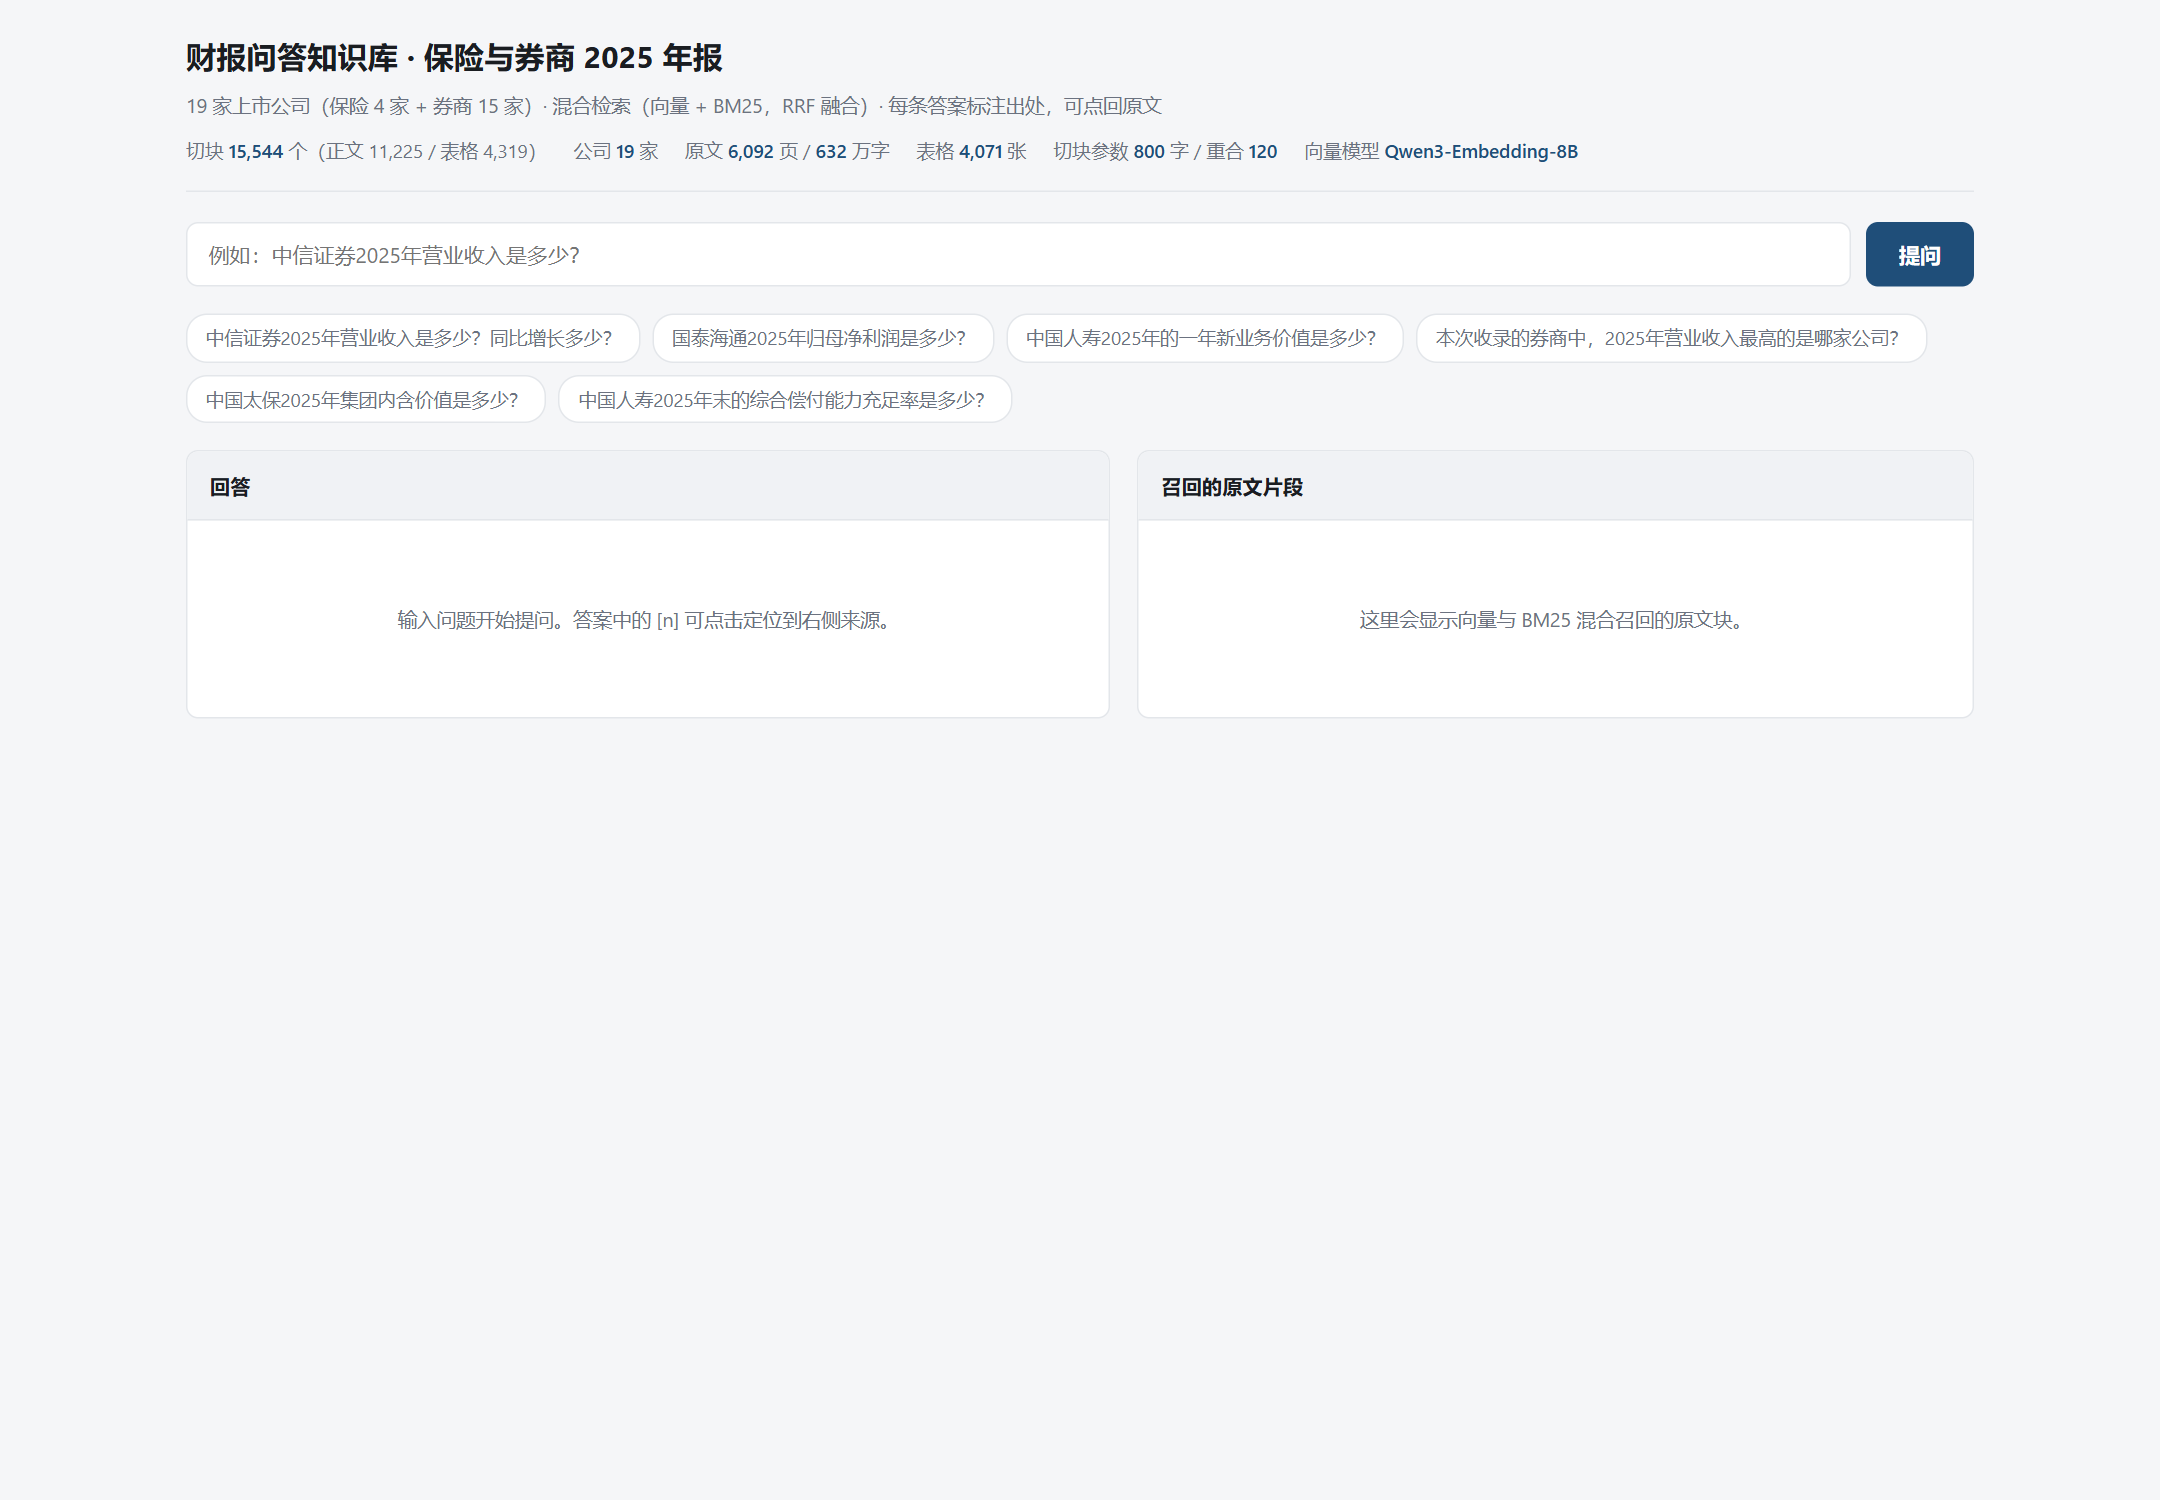
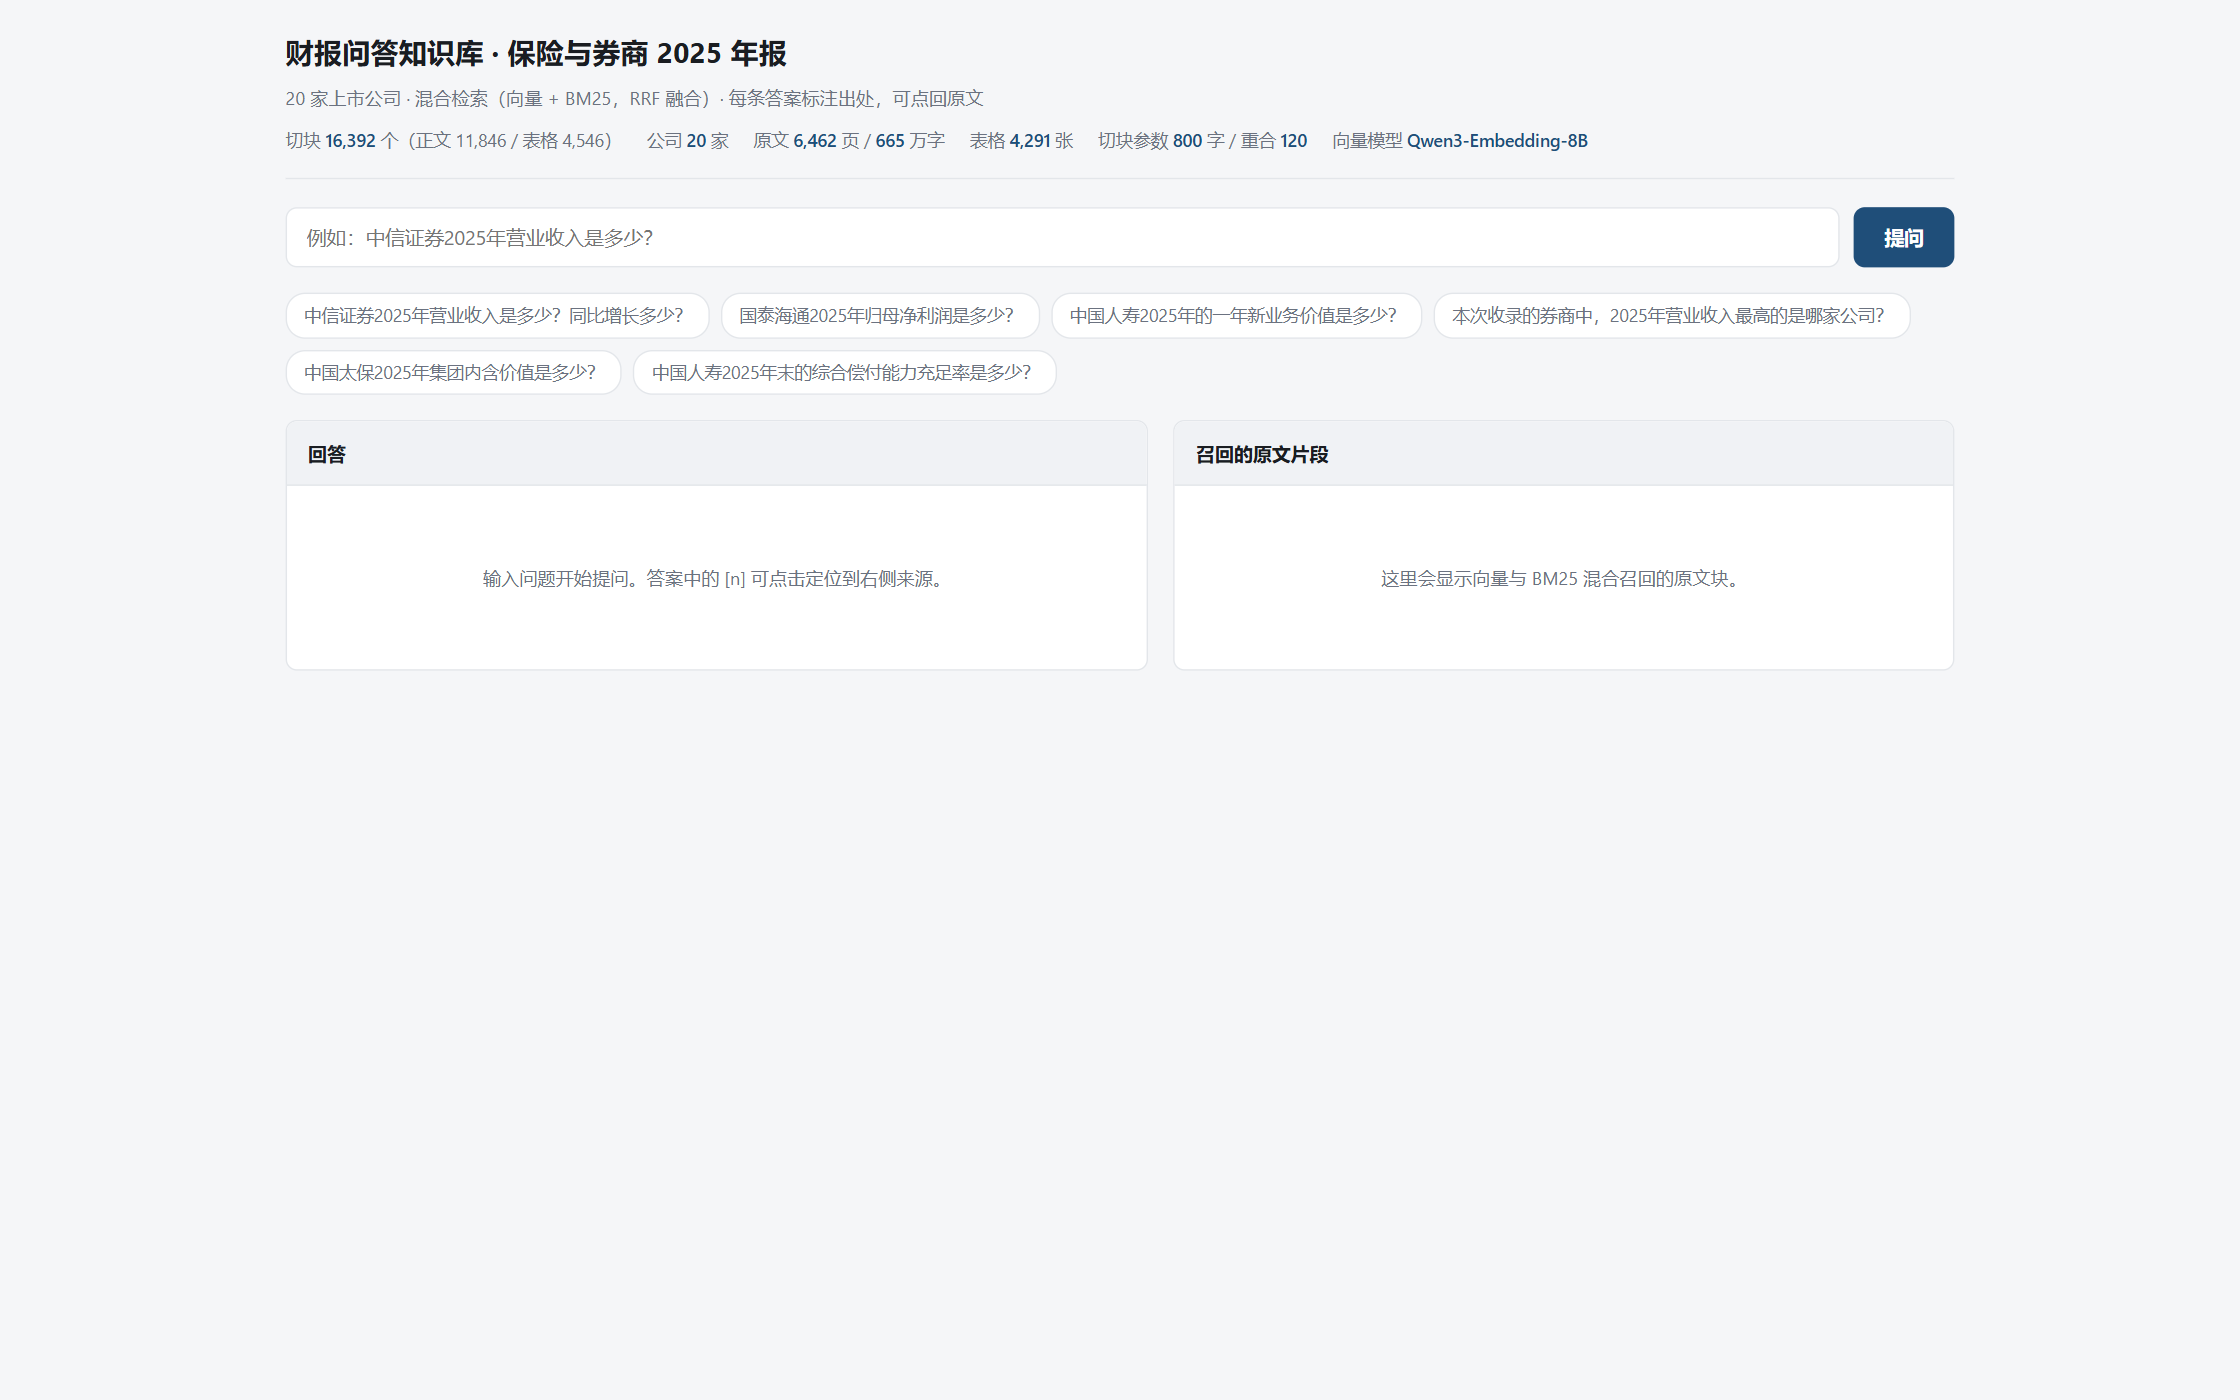
feat: 重新生成问答页面截图，页头公司数改为动态
交付物要求「页面截图」，旧截图是19 家索引时拍的，与当前 20 家索引不一致——
页头写着「19 家（保险 4 + 券商 15）」而统计条显示 20 家，自相矛盾。
截图与代码不同源等于提供了假证据，因此全部重拍。

- 新增 scripts/shoot_page.py：无头 Edge 逐题真实提问，
  等答案与召回片段都渲染完再截图，覆盖首页 + 四种题型
- 截图清单加入第 8 题「跨公司全景-翻车题」：答案里模型逐家列营收、
  断言「最高是国泰君安」，而右侧 8 个召回块里没有中信证券——
  这正是评测记录所述「正确答案未进 top-8」的直接视觉证据
- 第 5 张改为「改名公司-国泰海通」，覆盖公司更名这个真实难点
- web/index.html 页头公司数改为从 /api/stats 动态填充，不再写死
```
→ 网页加公司后不必再手动改文案，也不会再出现文案与数据不一致
```

验证：6 张截图均已肉眼核对，答案、`[n]` 角标、右侧召回块的
公司/章节/页码都正常渲染；陷阱题确认模型明确拒答未编造数字。

diff --git a/web/index.html b/web/index.html
@@ -91,7 +91,7 @@ pre.orig{white-space:pre-wrap;font-size:12.5px;line-height:1.7;max-height:340px;
 <div class="wrap">
 <header>
   <h1>财报问答知识库 · 保险与券商 2025 年报</h1>
-  <div class="sub">19 家上市公司（保险 4 家 + 券商 15 家）· 混合检索（向量 + BM25，RRF 融合）· 每条答案标注出处，可点回原文</div>
+  <div class="sub" id="sub">上市公司年报（混合检索：向量 + BM25，RRF 融合）· 每条答案标注出处，可点回原文</div>
   <div class="stats" id="stats">加载中…</div>
 </header>
 
@@ -128,6 +128,11 @@ document.getElementById('ex').innerHTML =
 
 fetch('/api/stats').then(r=>r.json()).then(d=>{
   const i=d.index||{}, e=d.extract||{};
+  // 公司家数按实际索引动态填，不写死在文案里——
+  // 之前「19 家」写死在 HTML 里，加了公司后页头就与数据不一致了。
+  const n=(i.companies||[]).length;
+  document.getElementById('sub').textContent =
+    `${n} 家上市公司 · 混合检索（向量 + BM25，RRF 融合）· 每条答案标注出处，可点回原文`;
   document.getElementById('stats').innerHTML =
     `<span>切块 <b>${(i.n_chunks||0).toLocaleString()}</b> 个（正文 ${(i.n_text||0).toLocaleString()} / 表格 ${(i.n_table||0).toLocaleString()}）</span>`+
     `<span>公司 <b>${(i.companies||[]).length}</b> 家</span>`+

diff --git a/scripts/shoot_page.py b/scripts/shoot_page.py
@@ -1,0 +1,178 @@
+"""给问答页面截图（交付物之一：页面截图）。
+
+为什么要脚本重截而不是复用旧图：索引已从 19 家换成 20 家，
+旧截图里的页码、公司列表与当前代码不一致。截图必须与提交时的代码同源，
+否则等于提供了假证据。
+
+流程：启动服务 → 无头浏览器逐题提问 → 等答案渲染完 → 截图 → 关浏览器。
+每张图都带问题与答案，肉眼即可判断「答案有没有出处、角标能不能点回原文」。
+
+用法：python scripts/shoot_page.py --port 8010
+"""
+from __future__ import annotations
+
+import argparse
+import json
+import os
+import shutil
+import subprocess
+import sys
+import time
+import urllib.request
+from pathlib import Path
+
+ROOT = Path(__file__).resolve().parent.parent
+SHOTS = ROOT / "shots"
+
+BROWSERS = [
+    r"C:\Program Files (x86)\Microsoft\Edge\Application\msedge.exe",
+    r"C:\Program Files\Microsoft\Edge\Application\msedge.exe",
+    r"C:\Program Files\Google\Chrome\Application\chrome.exe",
+]
+
+# (文件名, 问题) ——覆盖首页 + 四种题型，含翻车的那道跨公司题
+QUESTIONS = [
+    ("1-事实型-营收", "中信证券2025年营业收入是多少？同比增长多少？"),
+    ("2-业务指标-新业务价值", "中国太保2025年集团内含价值和归属于母公司股东的净利润分别是多少？"),
+    ("3-跨公司全景-翻车题", "本次收录的券商中，2025年营业收入最高的是哪家公司？它的归母净利润是多少？"),
+    ("4-陷阱型-看是否拒答", "根据这些年报，中信证券2026年的净利润预计是多少？"),
+    ("5-改名公司-国泰海通", "国泰海通2025年营业收入和归母净利润分别是多少？"),
+]
+
+
+def find_browser() -> str | None:
+    for p in BROWSERS:
+        if Path(p).exists():
+            return p
+    return None
+
+
+def wait_ready(url: str, timeout: int = 180) -> None:
+    t0 = time.time()
+    while time.time() - t0 < timeout:
+        try:
+            with urllib.request.urlopen(f"{url}/api/stats", timeout=10) as r:
+                if r.status == 200:
+                    return
+        except Exception:  # noqa: BLE001
+            pass
+        time.sleep(3)
+    raise TimeoutError(f"服务未在 {timeout}s 内就绪：{url}")
+
+
+SCRIPT = r"""
+const puppeteer = require('puppeteer-core');
+(async () => {
+  const EDGE = process.argv[2];
+  const BASE = process.argv[3];
+  const SHOTS = process.argv[4];
+  const jobs = JSON.parse(process.argv[5]);
+  const browser = await puppeteer.launch({
+    executablePath: EDGE,
+    headless: 'new',
+    args: ['--enable-unsafe-swiftshader','--use-angle=swiftshader'],
+  });
+  const page = await browser.newPage();
+  await page.setViewport({ width: 1600, height: 1000, deviceScaleFactor: 1.4 });
+  await page.goto(BASE + '/', { waitUntil: 'networkidle2', timeout: 90000 });
+  await page.waitForFunction(
+    () => { const s = document.getElementById('stats');
+            return s && s.innerText && !s.innerText.includes('加载中'); },
+    { timeout: 60000 }
+  );
+  await new Promise(r => setTimeout(r, 1500));
+  await page.screenshot({ path: SHOTS + '/0-首页.png' });
+  console.log('  已截图 0-首页');
+
+  for (const job of jobs) {
+    await page.goto(BASE + '/', { waitUntil: 'networkidle2', timeout: 90000 });
+    await new Promise(r => setTimeout(r, 1000));
+    await page.waitForSelector('#q', { timeout: 30000 });
+    await page.click('#q', { clickCount: 3 });
+    await page.type('#q', job.q, { delay: 6 });
+    // 页面是按钮触发（#go onclick=ask()），不是回车
+    await page.click('#go');
+    try {
+      await page.waitForFunction(() => {
+        const a = document.getElementById('ans');
+        if (!a) return false;
+        const t = a.innerText || '';
+        return t.length > 40 && !t.includes('检索并生成回答');
+      }, { timeout: 100000 });
+    } catch (e) {
+      console.error('  等待答案超时:', job.name);
+    }
+    // 等右侧「召回的原文片段」也渲染出来
+    try {
+      await page.waitForFunction(() => {
+        const c = document.getElementById('chunks');
+        return c && c.innerText && c.innerText.trim().length > 30;
+      }, { timeout: 40000 });
+    } catch (e) { /* 片段区可能为空，不阻塞截图 */ }
+    await new Promise(r => setTimeout(r, 1800));
+    await page.screenshot({ path: SHOTS + '/' + job.name + '.png', fullPage: true });
+    console.log('  已截图', job.name);
+  }
+  await browser.close();
+})();
+"""
+
+
+def main() -> int:
+    ap = argparse.ArgumentParser()
+    ap.add_argument("--port", type=int, default=8010)
+    args = ap.parse_args()
+    url = f"http://127.0.0.1:{args.port}"
+
+    browser = find_browser()
+    if not browser:
+        print("未找到 Edge/Chrome")
+        return 1
+    SHOTS.mkdir(parents=True, exist_ok=True)
+    wait_ready(url)
+    print(f"服务就绪：{url}")
+
+    try:
+        import puppeteer_core  # noqa: F401
+    except ImportError:
+        # puppeteer-core 是 Node 模块，装在受管 Node 工作区里，
+        # 不在 Python 环境里——所以这里检测不到是正常的，
+        # 真正要做的只是把 NODE_PATH 传给 node。直接放行。
+        pass
+
+    js = ROOT / "shots" / "_shoot.js"
+    js.write_text(SCRIPT, encoding="utf-8")
+    jobs = [{"name": n, "q": q} for n, q in QUESTIONS]
+    print(f"准备截 {len(jobs) + 1} 张图")
+
+    # puppeteer-core 装在受管工作区里，node 也要用受管版本，
+    # 否则可能落到系统 node 上找不到模块。
+    node = shutil.which("node") or "node"
+    env = dict(os.environ)
+    ws = Path.home() / ".workbuddy" / "binaries" / "node" / "workspace"
+    cand = ws / "node_modules"
+    if cand.exists():
+        prev = env.get("NODE_PATH", "")
+        env["NODE_PATH"] = str(cand) + ((";" + prev) if prev else "")
+
+    proc = subprocess.run(
+        [node, str(js), browser, url, str(SHOTS), json.dumps(jobs, ensure_ascii=False)],
+        capture_output=True,
+        timeout=1200,
+        env=env,
+    )
+    print(proc.stdout.decode(errors="ignore"))
+    err = proc.stderr.decode(errors="ignore")
+    if err.strip():
+        print("stderr:", err[-1200:])
+    js.unlink(missing_ok=True)
+
+    pngs = sorted(SHOTS.glob("[0-9]*.png"))
+    print(f"\n完成，共 {len(pngs)} 张：")
+    for p in pngs:
+        print(f"  {p.name}  {p.stat().st_size // 1024} KB")
+    return 0 if pngs else 1
+
+
+if __name__ == "__main__":
+    raise SystemExit(main())
